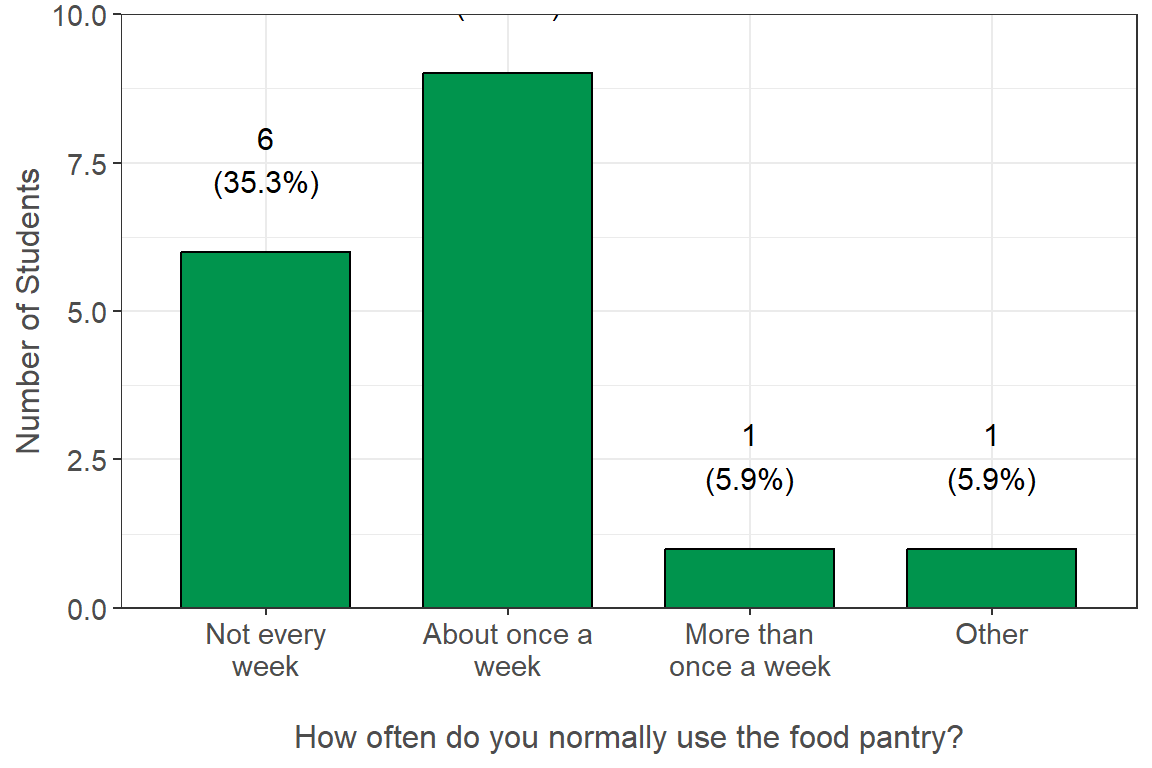
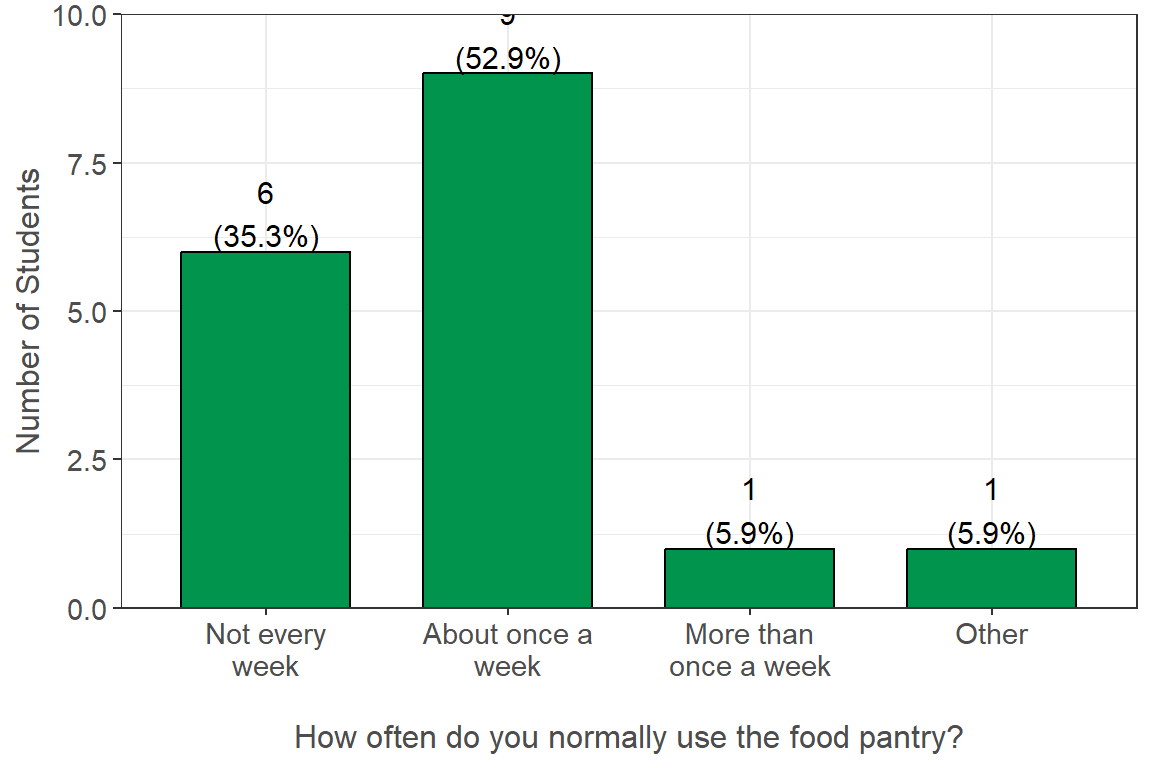
more small plot edits

diff --git a/docs/eligible_not_receiving.html b/docs/eligible_not_receiving.html
@@ -415,8 +415,8 @@ Table&nbsp;1: Top 10 Reported Barriers to using CalFresh for Students who are Li
 <h2 data-anchor-id="other-please-specify">Other (Please Specify)</h2>
 <div class="cell" data-layout-align="center">
 <div class="cell-output-display">
-<div class="datatables html-widget html-fill-item" id="htmlwidget-14ba3320169c74d0895d" style="width:100%;height:auto;"></div>
-<script type="application/json" data-for="htmlwidget-14ba3320169c74d0895d">{"x":{"filter":"none","vertical":false,"caption":"<caption>Table 2: Additional Barriers for Students who are Likely Eligible but not Receiving CalFresh.<\/caption>","data":[["1"],["not approved"]],"container":"<table class=\"cell-border stripe\">\n  <thead>\n    <tr>\n      <th> <\/th>\n      <th>Other barriers<\/th>\n    <\/tr>\n  <\/thead>\n<\/table>","options":{"columnDefs":[{"className":"dt-left","targets":[0,1]},{"orderable":false,"targets":0},{"name":" ","targets":0},{"name":"Other barriers","targets":1}],"order":[],"autoWidth":false,"orderClasses":false},"selection":{"mode":"multiple","selected":null,"target":"row","selectable":null}},"evals":[],"jsHooks":[]}</script>
+<div class="datatables html-widget html-fill-item" id="htmlwidget-d7a13736d5dfcd881b07" style="width:100%;height:auto;"></div>
+<script type="application/json" data-for="htmlwidget-d7a13736d5dfcd881b07">{"x":{"filter":"none","vertical":false,"caption":"<caption>Table 2: Additional Barriers for Students who are Likely Eligible but not Receiving CalFresh.<\/caption>","data":[["1"],["not approved"]],"container":"<table class=\"cell-border stripe\">\n  <thead>\n    <tr>\n      <th> <\/th>\n      <th>Other barriers<\/th>\n    <\/tr>\n  <\/thead>\n<\/table>","options":{"columnDefs":[{"className":"dt-left","targets":[0,1]},{"orderable":false,"targets":0},{"name":" ","targets":0},{"name":"Other barriers","targets":1}],"order":[],"autoWidth":false,"orderClasses":false},"selection":{"mode":"multiple","selected":null,"target":"row","selectable":null}},"evals":[],"jsHooks":[]}</script>
 </div>
 </div>
 <p><strong>Survey question: </strong> <em>What are the reasons you do not have CalFresh or have never used CalFresh?</em></p>
